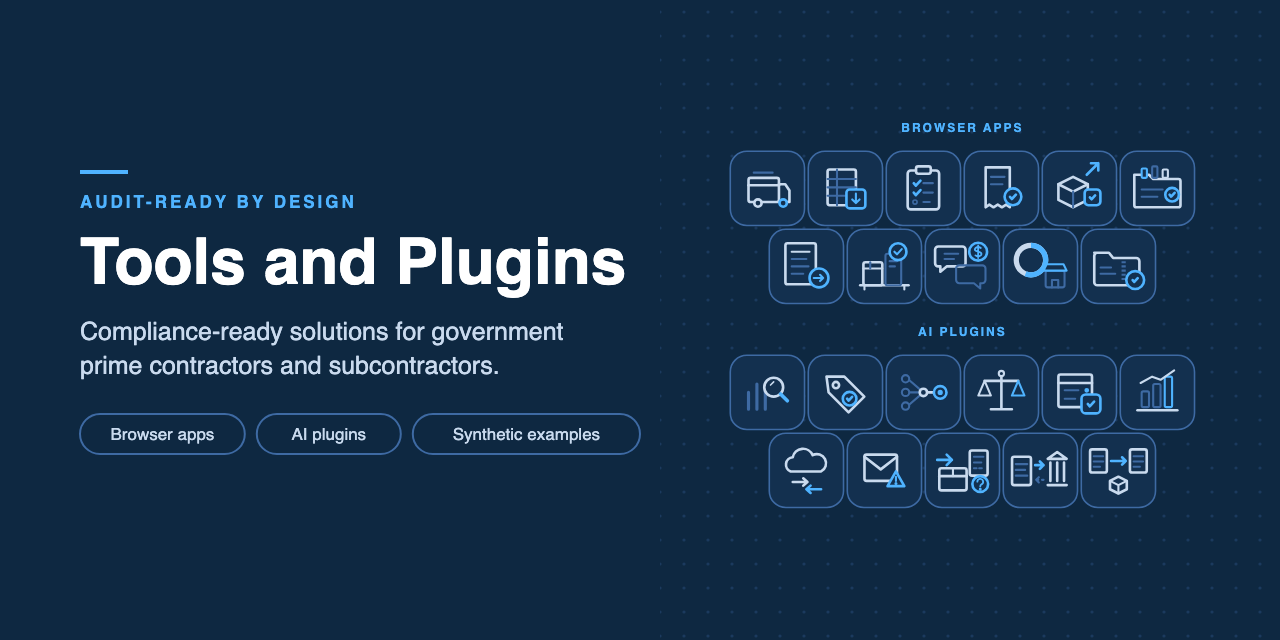
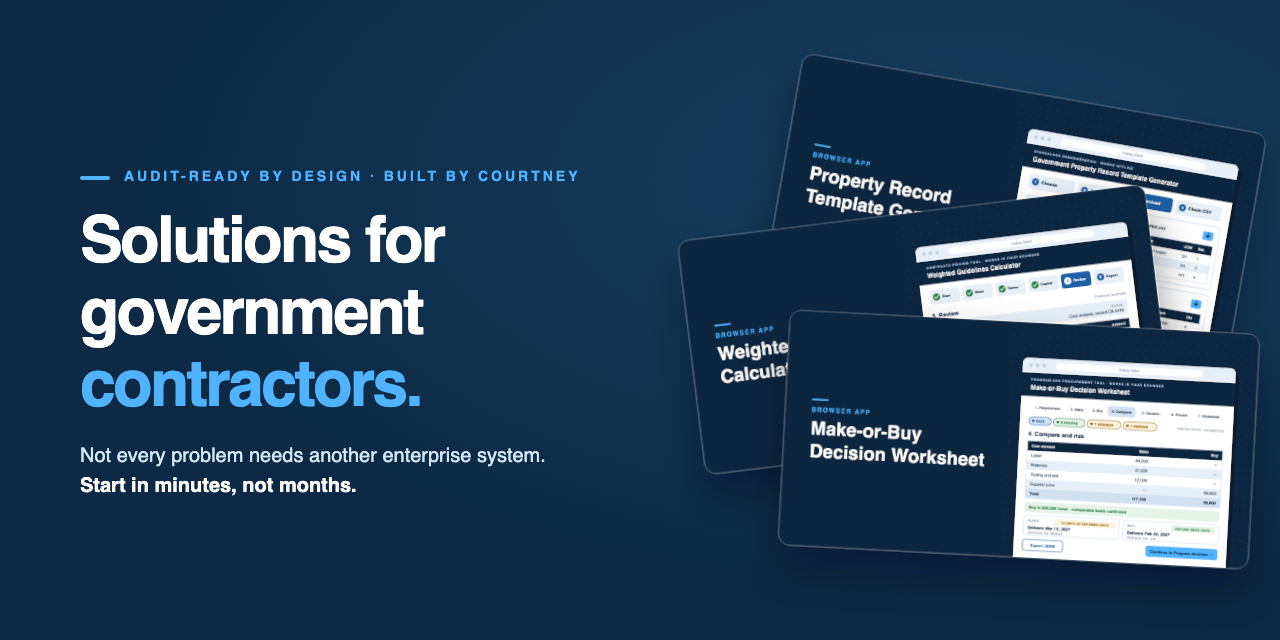
Refresh site social preview and title
Use the version 2 social preview image and align the page title and sharing descriptions with the current homepage message.

diff --git a/index.html b/index.html
@@ -4,12 +4,12 @@
   <meta charset="utf-8">
   <meta name="viewport" content="width=device-width, initial-scale=1">
   <meta name="color-scheme" content="light">
-  <meta name="description" content="Explore Courtney Chapman's free browser apps and AI tools for procurement, government property, and contracts.">
-  <title>Tools &amp; Plugins · Courtney Chapman</title>
+  <meta name="description" content="Solutions for government contractors. Not every problem needs another enterprise system. Start in minutes, not months.">
+  <title>Solutions for Government Contractors by Courtney</title>
   <link rel="canonical" href="https://courtney-chapman.github.io/tools-public/">
   <meta property="og:type" content="website">
-  <meta property="og:title" content="Tools &amp; Plugins · Courtney Chapman">
-  <meta property="og:description" content="Start in minutes, not months. Browse solutions for procurement, government property, and contracts.">
+  <meta property="og:title" content="Solutions for Government Contractors by Courtney">
+  <meta property="og:description" content="Not every problem needs another enterprise system. Start in minutes, not months.">
   <meta property="og:url" content="https://courtney-chapman.github.io/tools-public/">
   <meta property="og:image" content="https://courtney-chapman.github.io/tools-public/docs/readme/social_preview.png">
   <meta name="twitter:card" content="summary_large_image">
